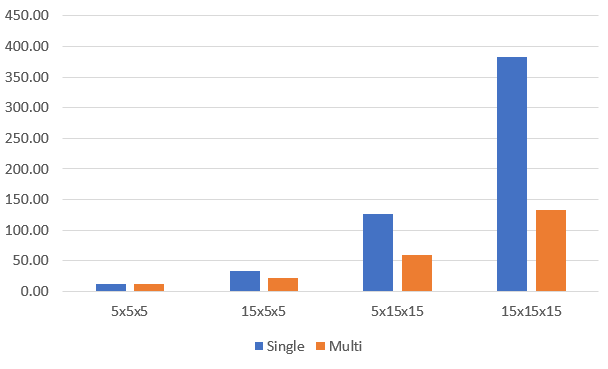
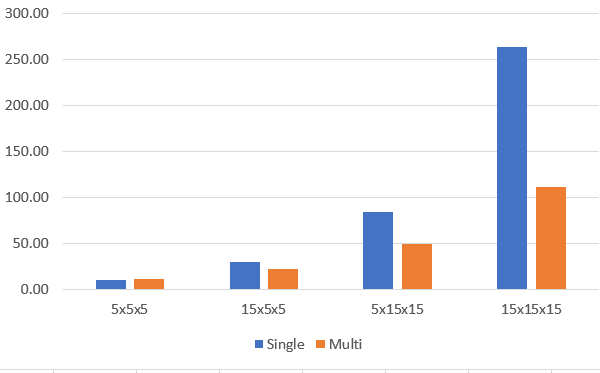
Report updated

diff --git a/Benchmark/Matrix.cs b/Benchmark/Matrix.cs
@@ -92,17 +92,37 @@ namespace Benchmark
             */
         [Benchmark] public void MatrixAndAdd20()
             => TS.PiecewiseAdd(createdMatrix20, createdMatrix20_dupl);
-        
+        /*
         [Benchmark] public void MatrixAndAdd100()
             => TS.PiecewiseAdd(createdMatrix100, createdMatrix100_dupl);
-        /*
         
         [Benchmark] public void MatrixAndAdd20Parallel()
             => TS.PiecewiseAdd(createdMatrix20, createdMatrix20_dupl, Threading.Multi);
 
         [Benchmark] public void MatrixAndAdd100Parallel()
             => TS.PiecewiseAdd(createdMatrix100, createdMatrix100_dupl, Threading.Multi);
-        
+            */
+        [Benchmark] public void MatrixAndAdd20Manually()
+        {
+            var res = GenTensor<int, IntWrapper>.CreateMatrix(20, 20);
+            var a = createdMatrix20;
+            var b = createdMatrix20_dupl;
+            var resBlocks0 = res.blocks[0];
+
+            var aBlocks0 = a.blocks[0];
+            var aBlocks1 = a.blocks[1];
+            var bBlocks0 = b.blocks[0];
+            var bBlocks1 = b.blocks[1];
+
+            var aLinoffset = a.LinOffset;
+            var bLinoffset = b.LinOffset;
+
+            for(int x = 0; x < 20; x++)
+            for (int y = 0; y < 20; y++)
+                res.data[x * 20 + y] = a.data[x * aBlocks0 + y * aBlocks1 + aLinoffset]
+                                       + b.data[x * bBlocks0 + y * bBlocks1 + bLinoffset];
+        }
+        /*
         [Benchmark] public void SafeIndexing()
         {
             for (int i = 0; i < createdMatrix9.Shape[0]; i++)

diff --git a/Benchmark/OneVsMulti.cs b/Benchmark/OneVsMulti.cs
@@ -82,6 +82,7 @@ namespace Benchmark
 
         #region piecewise single
 
+        
         [Benchmark]
         public void Piecewise10x10x10()
             => TS.PiecewiseAdd(GetT(10, 10), GetT(10, 10));
@@ -92,16 +93,18 @@ namespace Benchmark
 
         [Benchmark]
         public void Piecewise10x30x30()
-            => TS.PiecewiseAdd(GetT(10, 10), GetT(10, 10));
-
+            => TS.PiecewiseAdd(GetT(10, 30), GetT(10, 30));
+            
         [Benchmark]
         public void Piecewise30x30x30()
-            => TS.PiecewiseAdd(GetT(30, 10), GetT(30, 10));
+            => TS.PiecewiseAdd(GetT(30, 30), GetT(30, 30));
+            
 
         #endregion
 
         #region piecewise multi
 
+        
         [Benchmark]
         public void Piecewise10x10x10Par()
             => TS.PiecewiseAdd(GetT(10, 10), GetT(10, 10), Threading.Multi);
@@ -112,11 +115,11 @@ namespace Benchmark
 
         [Benchmark]
         public void Piecewise10x30x30Par()
-            => TS.PiecewiseAdd(GetT(10, 10), GetT(10, 10), Threading.Multi);
-
+            => TS.PiecewiseAdd(GetT(10, 30), GetT(10, 30), Threading.Multi);
+            
         [Benchmark]
         public void Piecewise30x30x30Par()
-            => TS.PiecewiseAdd(GetT(30, 10), GetT(30, 10), Threading.Multi);
+            => TS.PiecewiseAdd(GetT(30, 30), GetT(30, 30), Threading.Multi);
 
         #endregion
     }

diff --git a/GenericTensor/Core/Expressions/IteratorCompiler.cs b/GenericTensor/Core/Expressions/IteratorCompiler.cs
@@ -42,17 +42,19 @@ namespace GenericTensor.Core.Expressions
             var label = Expression.Label();
 
             var loop = Expression.Loop(
-                Expression.IfThenElse(
+                Expression.Block(
+                    Expression.IfThenElse(
 
                     Expression.LessThan(var, until),
 
                     Expression.Block(
-                        onIter,
-                        Expression.PostIncrementAssign(var)
+                        onIter
                     ),
 
                     Expression.Break(label)
                 ),
+                Expression.PostIncrementAssign(var)
+                    ),
                 label);
 
             

diff --git a/Sample/Program.cs b/Sample/Program.cs
@@ -85,8 +85,8 @@ class Program
     static void Main(string[] args)
     {
 
-        var a = CreateMatrix(30);
-        var b = CreateMatrix(30);
+        var a = TS.Stack(CreateMatrix(30), CreateMatrix(30), CreateMatrix(30), CreateMatrix(30));
+        var b = TS.Stack(CreateMatrix(30), CreateMatrix(30), CreateMatrix(30), CreateMatrix(30));
         /*
         Console.WriteLine(a);
         Console.WriteLine();

diff --git a/README.md b/README.md
@@ -407,16 +407,16 @@ operation.
 <details><summary>Raw data</summary>
 
 
-|               Method | Width | Height |       Mean |     Error |    StdDev |
-|--------------------- |------ |------- |-----------:|----------:|----------:|
-|             Multiply |     5 |      5 |  11.749 us | 0.2301 us | 0.3780 us |
-|          MultiplyPar |     5 |      5 |  12.251 us | 0.1831 us | 0.1799 us |
-|             Multiply |    15 |      5 |  33.234 us | 0.6564 us | 0.9622 us |
-|          MultiplyPar |    15 |      5 |  21.839 us | 0.2790 us | 0.2609 us |
-|             Multiply |     5 |     15 | 126.892 us | 2.3327 us | 2.0678 us |
-|          MultiplyPar |     5 |     15 |  60.077 us | 1.0170 us | 0.9015 us |
-|             Multiply |    15 |     15 | 383.536 us | 7.6478 us | 9.6720 us |
-|          MultiplyPar |    15 |     15 | 133.525 us | 2.1654 us | 2.0256 us |
+|               Method | Width | Height |     Mean |
+|--------------------- |------ |------- |---------:|
+|             Multiply |     5 |      5 |  10.2 us |
+|          MultiplyPar |     5 |      5 |  11.0 us |
+|             Multiply |    15 |      5 |  30.0 us |
+|          MultiplyPar |    15 |      5 |  21.8 us |
+|             Multiply |     5 |     15 |  84.9 us |
+|          MultiplyPar |     5 |     15 |  49.1 us |
+|             Multiply |    15 |     15 | 264.5 us |
+|          MultiplyPar |    15 |     15 | 111.0 us |
 
 `Par` at the end of the name means one is ran in parallel mode (multithreading). The tensor is of size `Width` x `Height` x `Height`
 
@@ -430,16 +430,16 @@ operation.
 <details><summary>Raw data</summary>
 
 
-|               Method | Width | Height |       Mean |     Error |    StdDev |
-|--------------------- |------ |------- |-----------:|----------:|----------:|
-|    PiecewiseMultiply |     5 |      5 |   1.274 us | 0.0177 us | 0.0148 us |
-| PiecewiseMultiplyPar |     5 |      5 |   4.215 us | 0.0243 us | 0.0215 us |
-|    PiecewiseMultiply |    15 |      5 |   3.391 us | 0.0647 us | 0.0719 us |
-| PiecewiseMultiplyPar |    15 |      5 |   7.046 us | 0.0217 us | 0.0203 us |
-|    PiecewiseMultiply |     5 |     15 |   9.622 us | 0.1835 us | 0.1884 us |
-| PiecewiseMultiplyPar |     5 |     15 |   8.811 us | 0.0290 us | 0.0242 us |
-|    PiecewiseMultiply |    15 |     15 |  28.553 us | 0.5403 us | 0.5054 us |
-| PiecewiseMultiplyPar |    15 |     15 |  15.267 us | 0.1027 us | 0.0910 us |
+|               Method | Width | Height |     Mean |
+|--------------------- |------ |------- |---------:|
+|    PiecewiseMultiply |    10 |     10 |   4.2 us |
+| PiecewiseMultiplyPar |    10 |     10 |   9.5 us |
+|    PiecewiseMultiply |    30 |     10 |  12.0 us |
+| PiecewiseMultiplyPar |    30 |     10 |  14.0 us |
+|    PiecewiseMultiply |    10 |     30 |  35.0 us |
+| PiecewiseMultiplyPar |    10 |     30 |  25.0 us |
+|    PiecewiseMultiply |    30 |     30 | 144.0 us |
+| PiecewiseMultiplyPar |    30 |     30 |  83.0 us |
 
 `Par` at the end of the name means one is ran in parallel mode (multithreading). The tensor is of size `Width` x `Height` x `Height`
 
